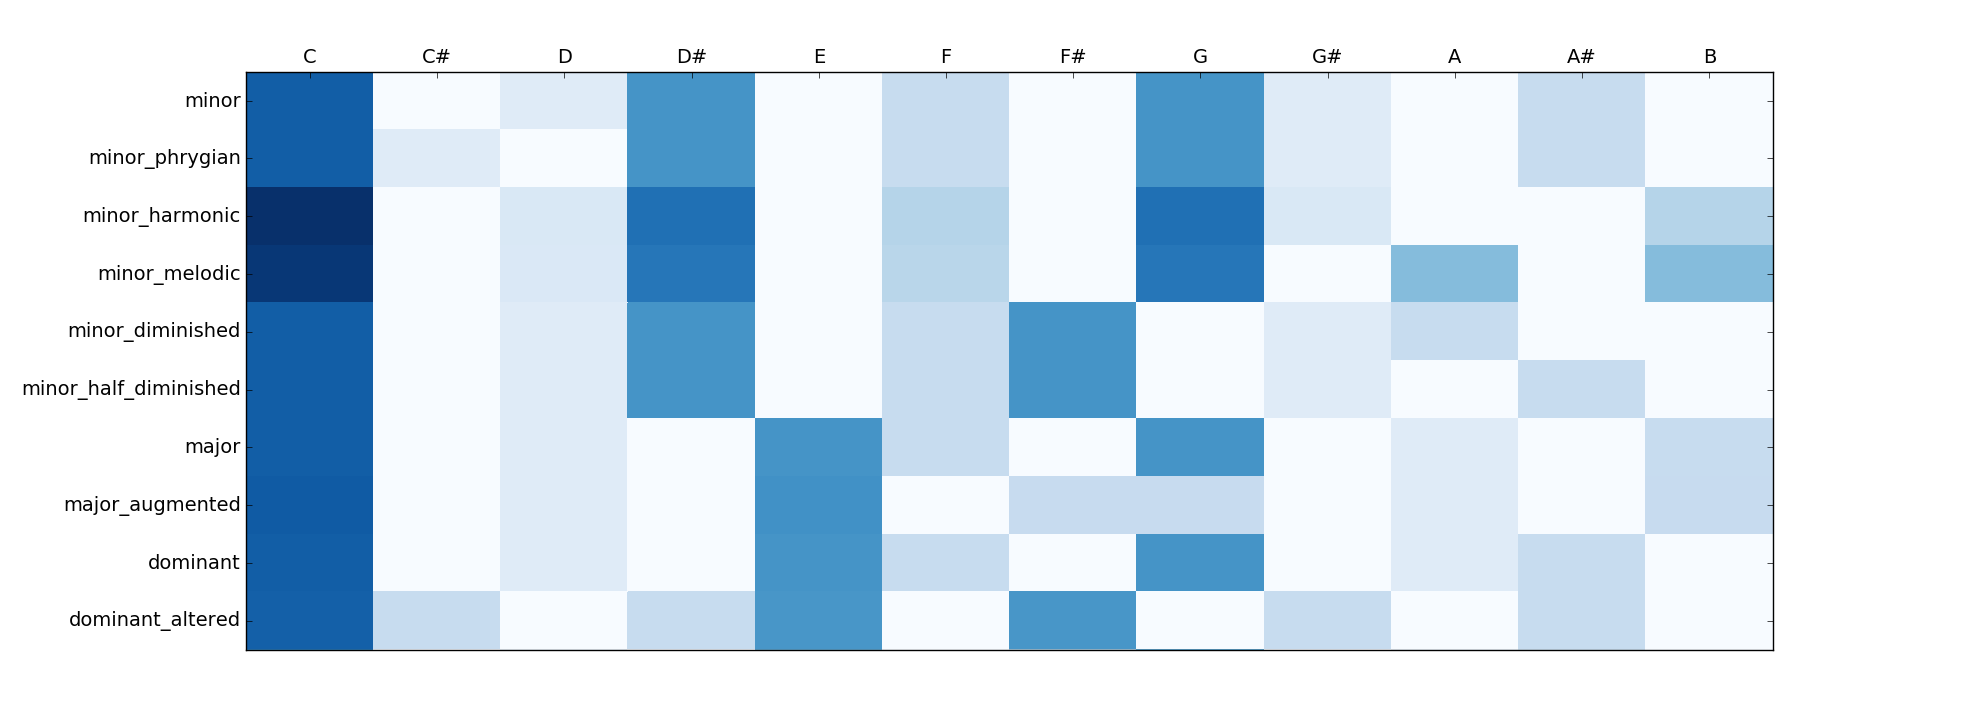
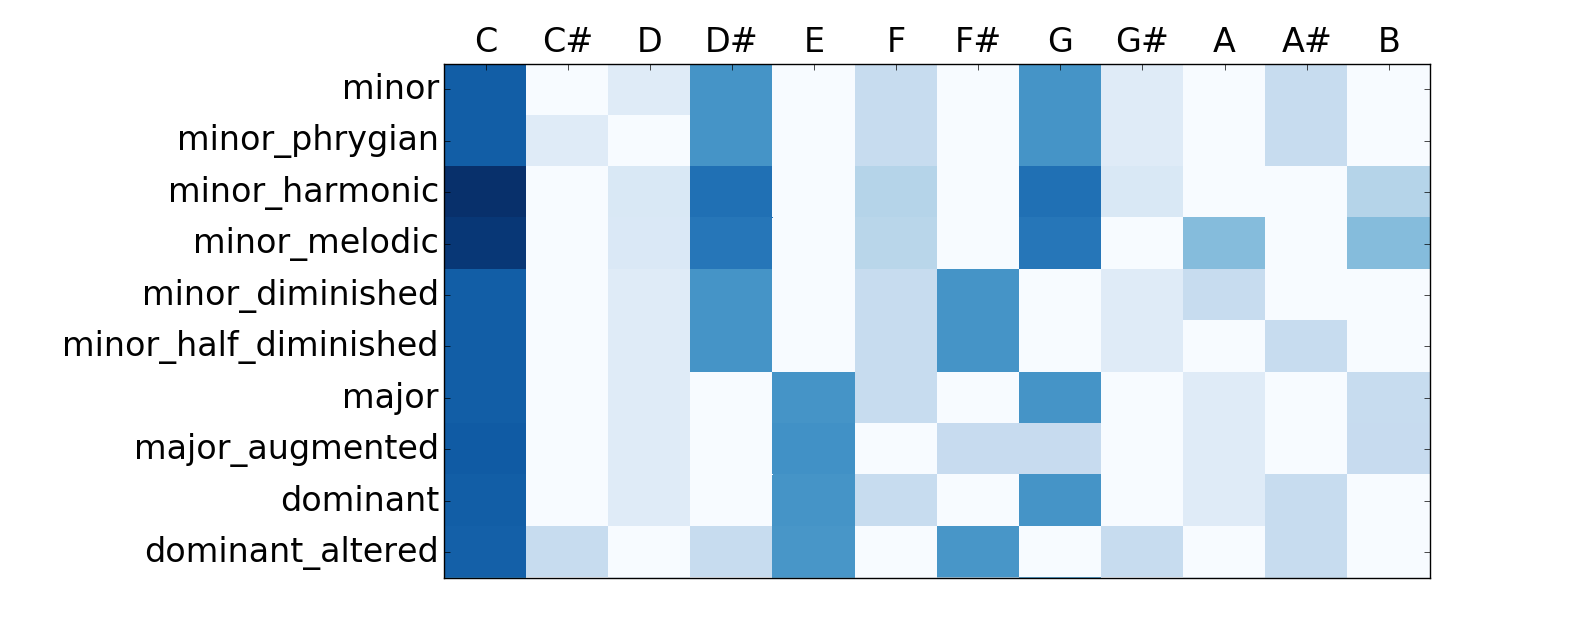
png

diff --git a/Source Code/preprocess_0.py b/Source Code/preprocess_0.py
@@ -21,8 +21,8 @@ def plot_canonical_chords_vector():
 	ax.xaxis.tick_top()
 	ax.set_ylim([10,0])
 	
-	ax.set_xticklabels(column_labels, minor=False, fontsize=14)
-	ax.set_yticklabels(row_labels, minor=False, fontsize=14)
+	ax.set_xticklabels(column_labels, minor=False, fontsize=24)
+	ax.set_yticklabels(row_labels, minor=False, fontsize=24)
 	
 	plt.ion()
 	plt.show()
